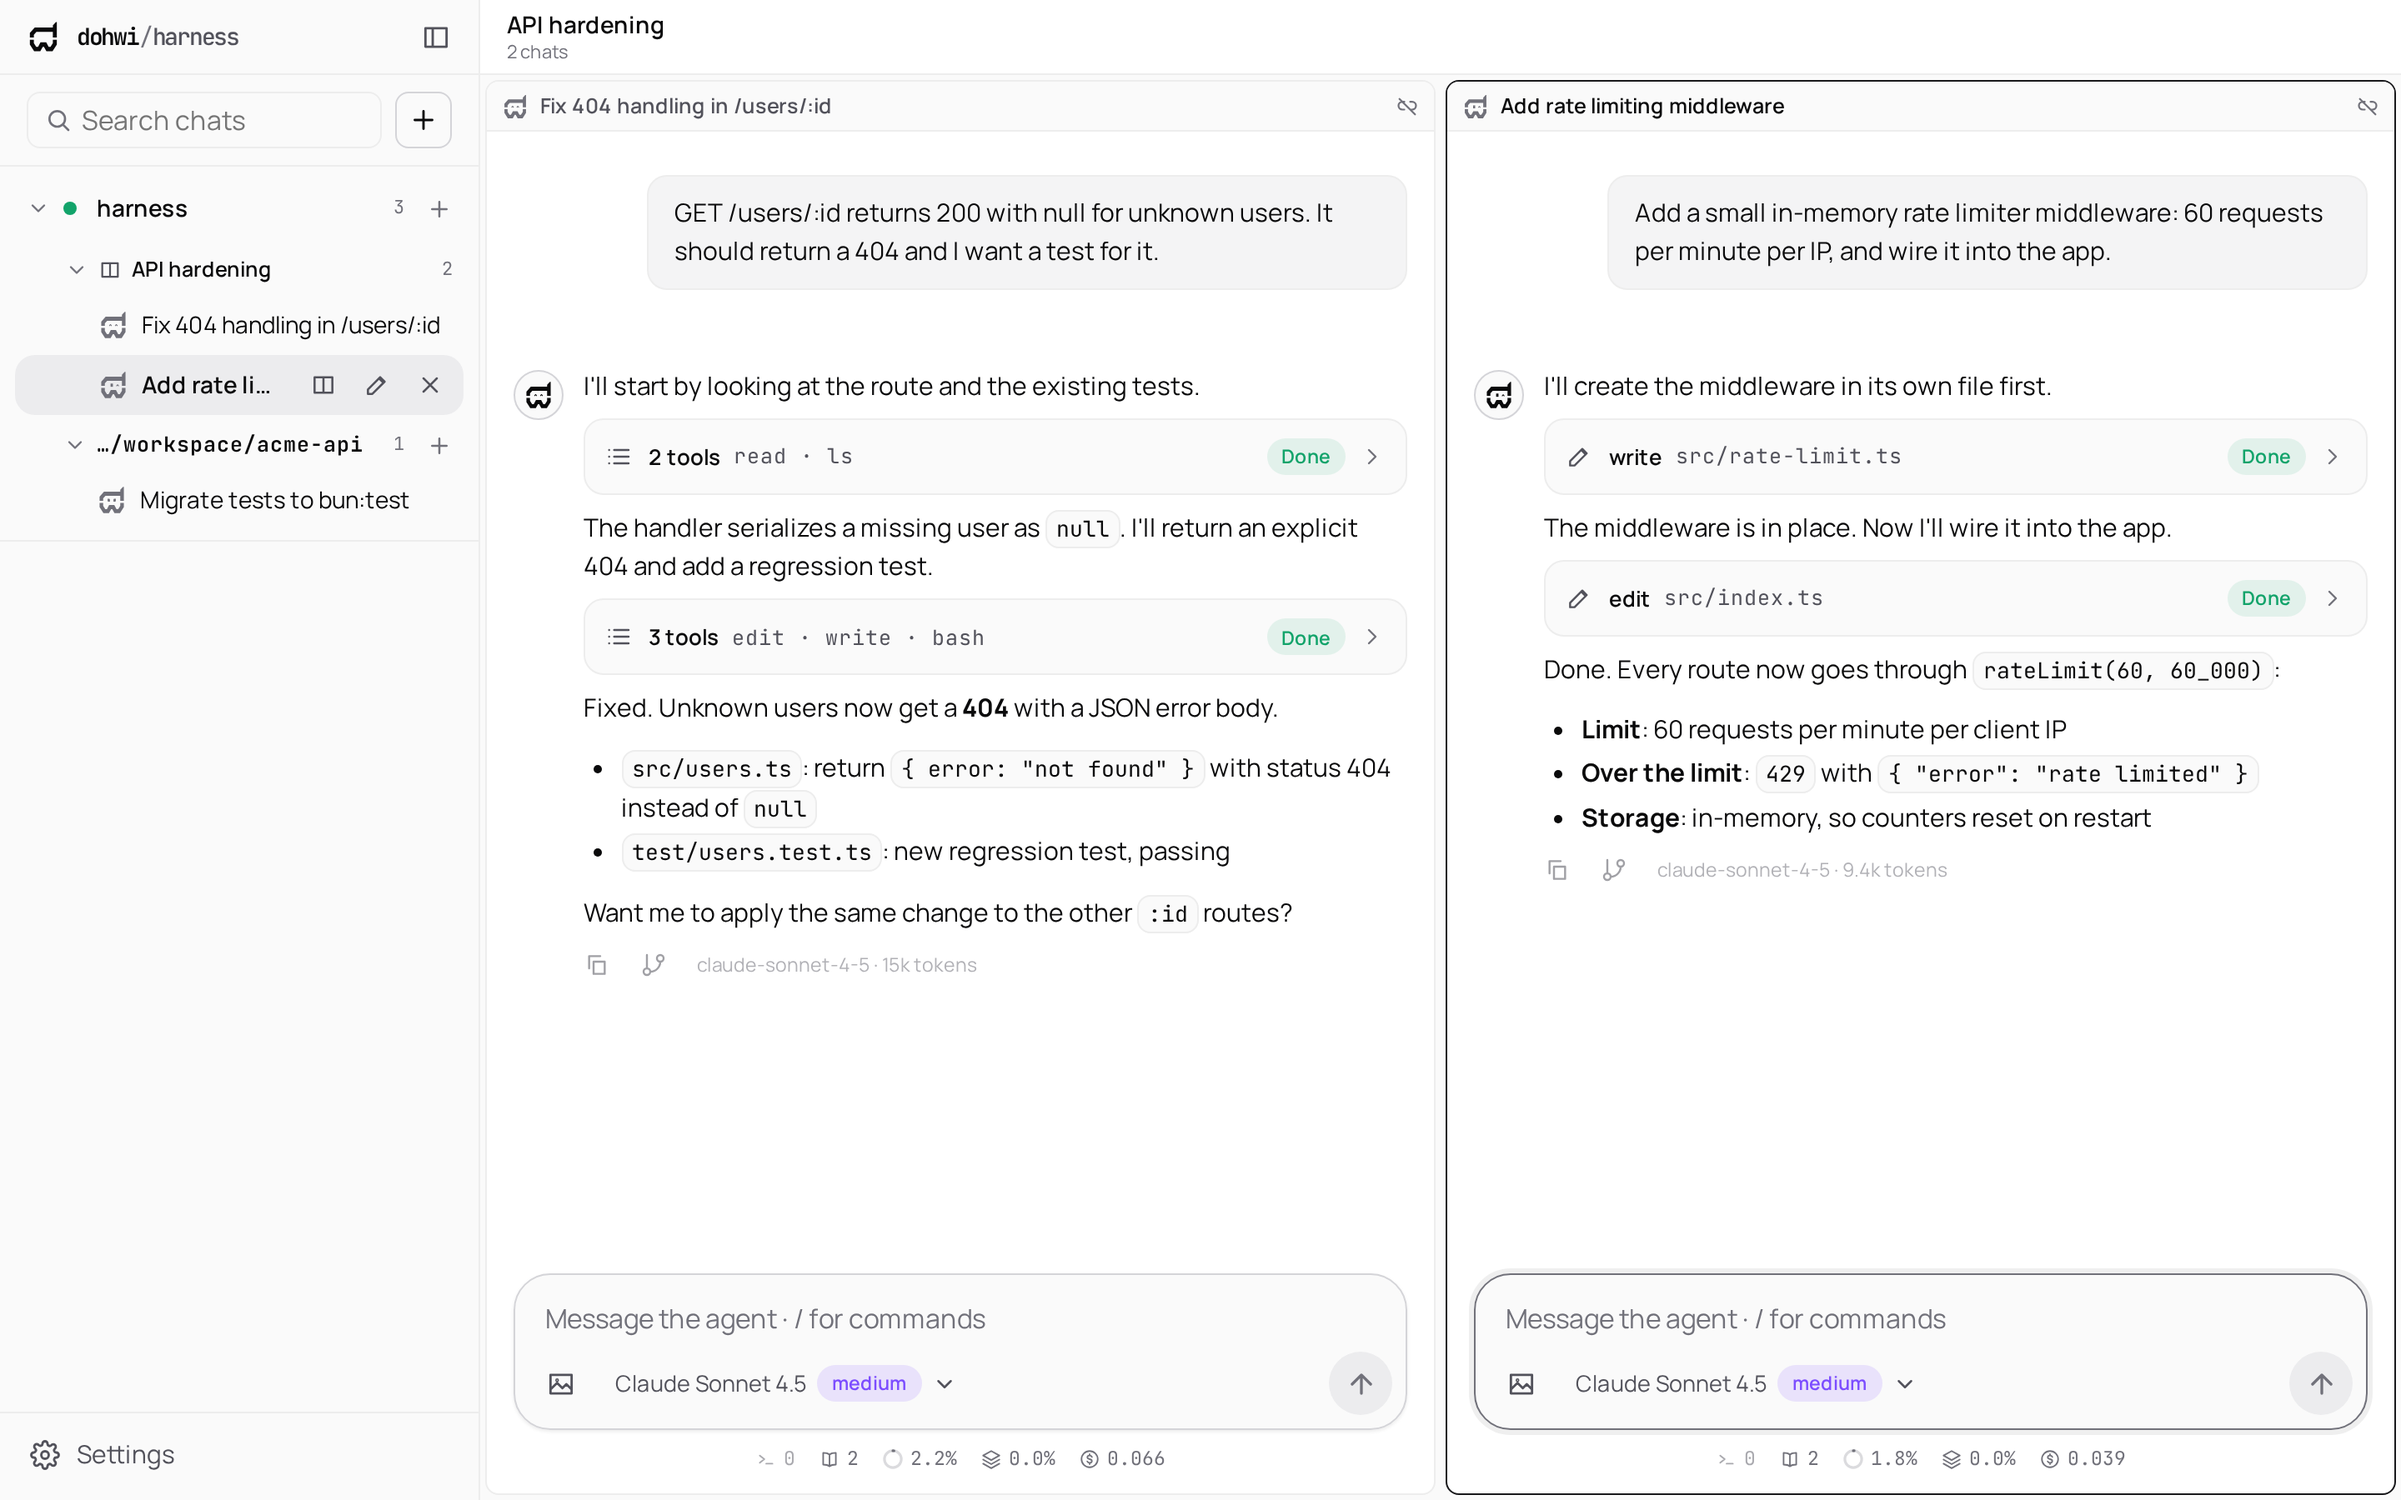
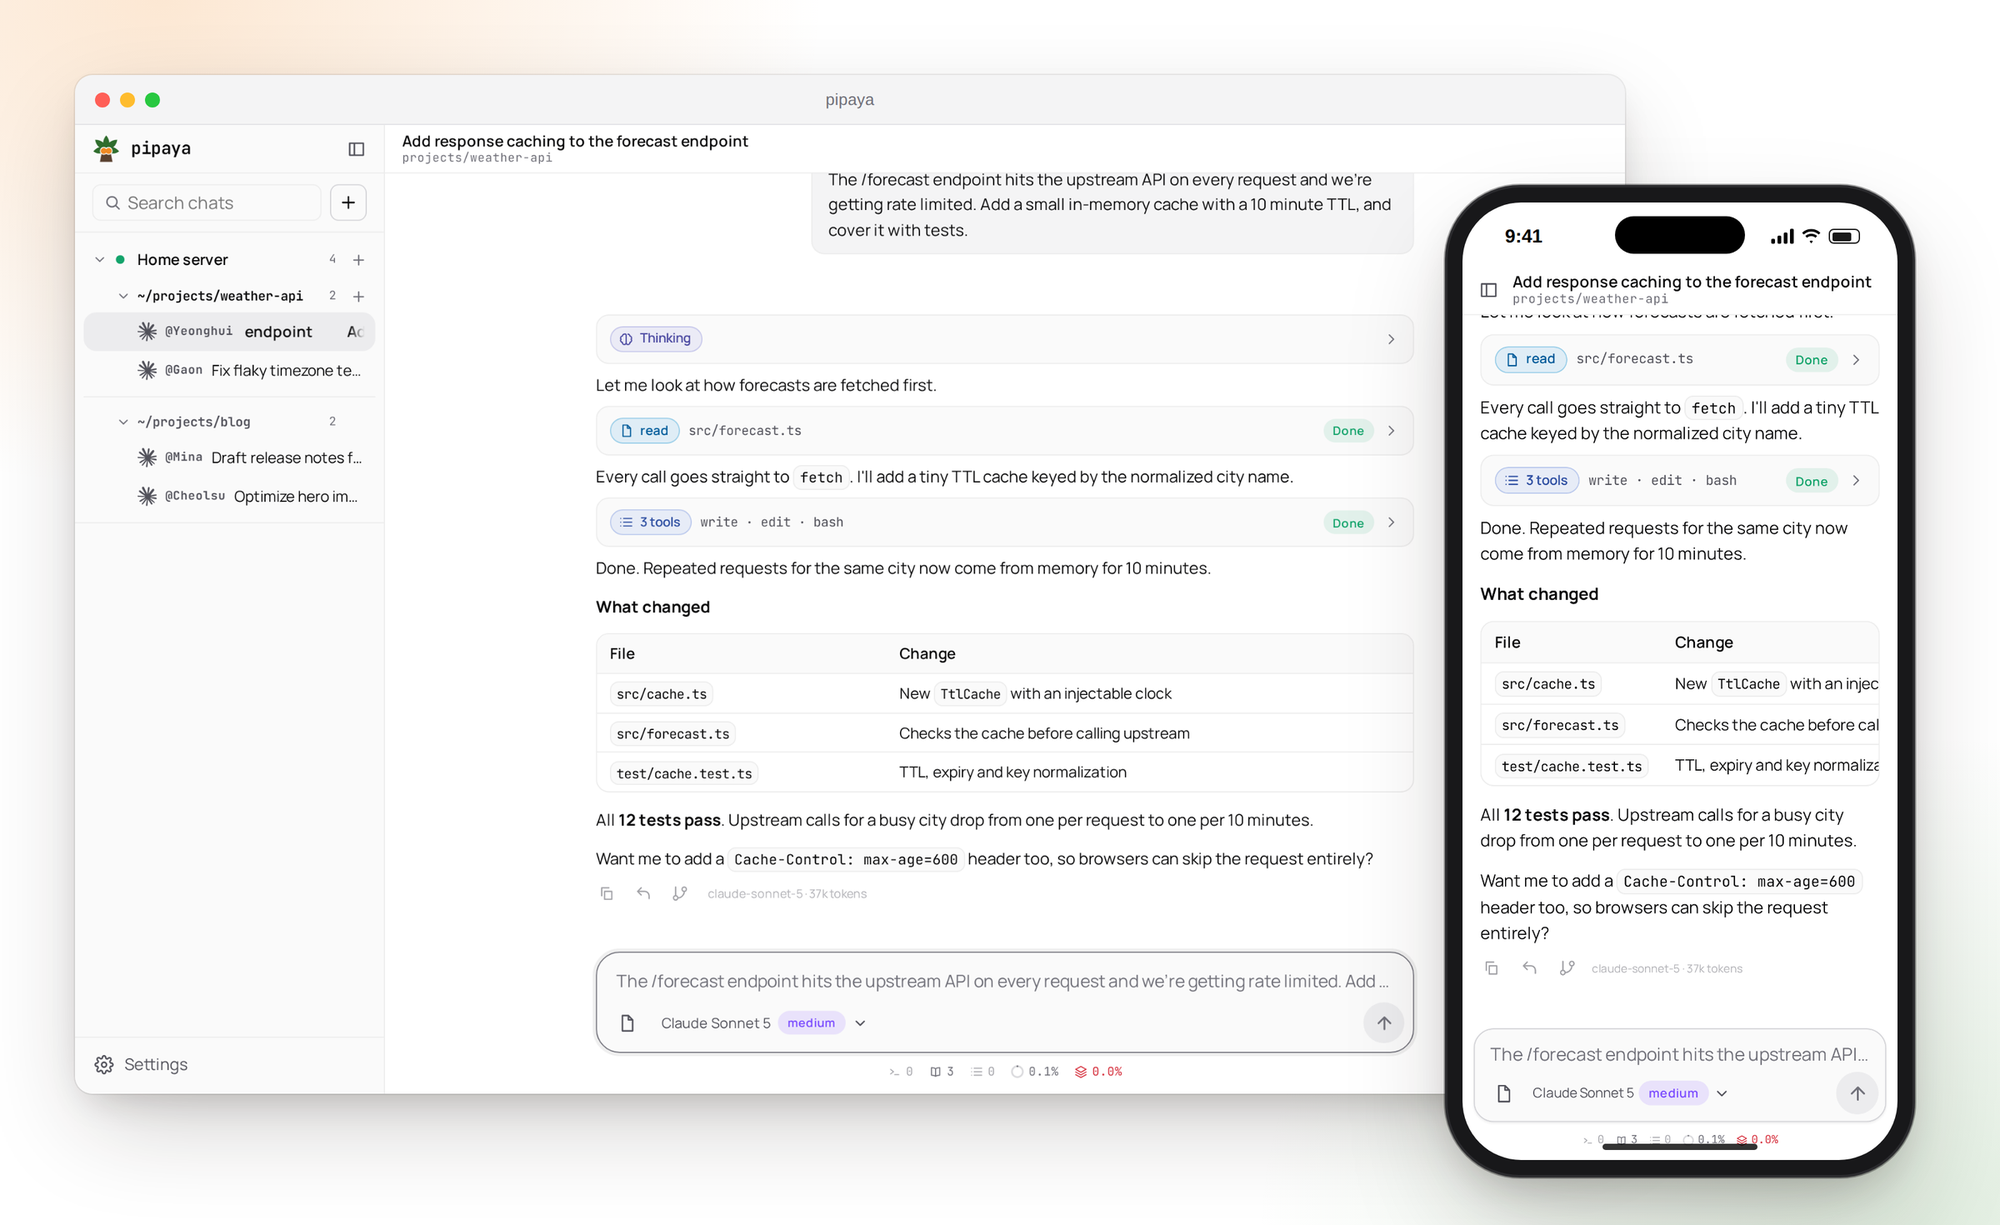
docs(readme): add desktop and mobile preview with dark and light variants

diff --git a/README.ko.md b/README.ko.md
@@ -18,6 +18,13 @@
 
 pipaya는 **내 서버에서 돌리는 AI 에이전트 채팅 도구**입니다. 서버가 모델 호출과 도구 실행을 맡고, 앱은 어느 기기에서든 같은 서버에 접속합니다. 세션, 설정, API 키는 내 서버의 SQLite에만 저장되며 클라우드 계정이 필요 없습니다.
 
+<p align="center">
+  <picture>
+    <source media="(prefers-color-scheme: dark)" srcset=".github/assets/preview-dark.png" />
+    <img src=".github/assets/preview-light.png" alt="데스크톱과 모바일에서 실행 중인 pipaya" width="100%" />
+  </picture>
+</p>
+
 ## 주요 기능
 
 - **내장 도구 10종**: read, write, edit, ls, grep, bash, ask_user, delegate, peer_send, peer_read

diff --git a/README.md b/README.md
@@ -18,6 +18,13 @@
 
 pipaya is an **AI agent chat tool that runs on your own server**. The server calls models and runs tools; the app connects to it from any device. Sessions, settings and API keys stay in your server's SQLite database. No cloud account needed.
 
+<p align="center">
+  <picture>
+    <source media="(prefers-color-scheme: dark)" srcset=".github/assets/preview-dark.png" />
+    <img src=".github/assets/preview-light.png" alt="pipaya on desktop and mobile" width="100%" />
+  </picture>
+</p>
+
 ## Features
 
 - **Agent with 10 built-in tools**: read, write, edit, ls, grep, bash, ask_user, delegate, peer_send, peer_read
